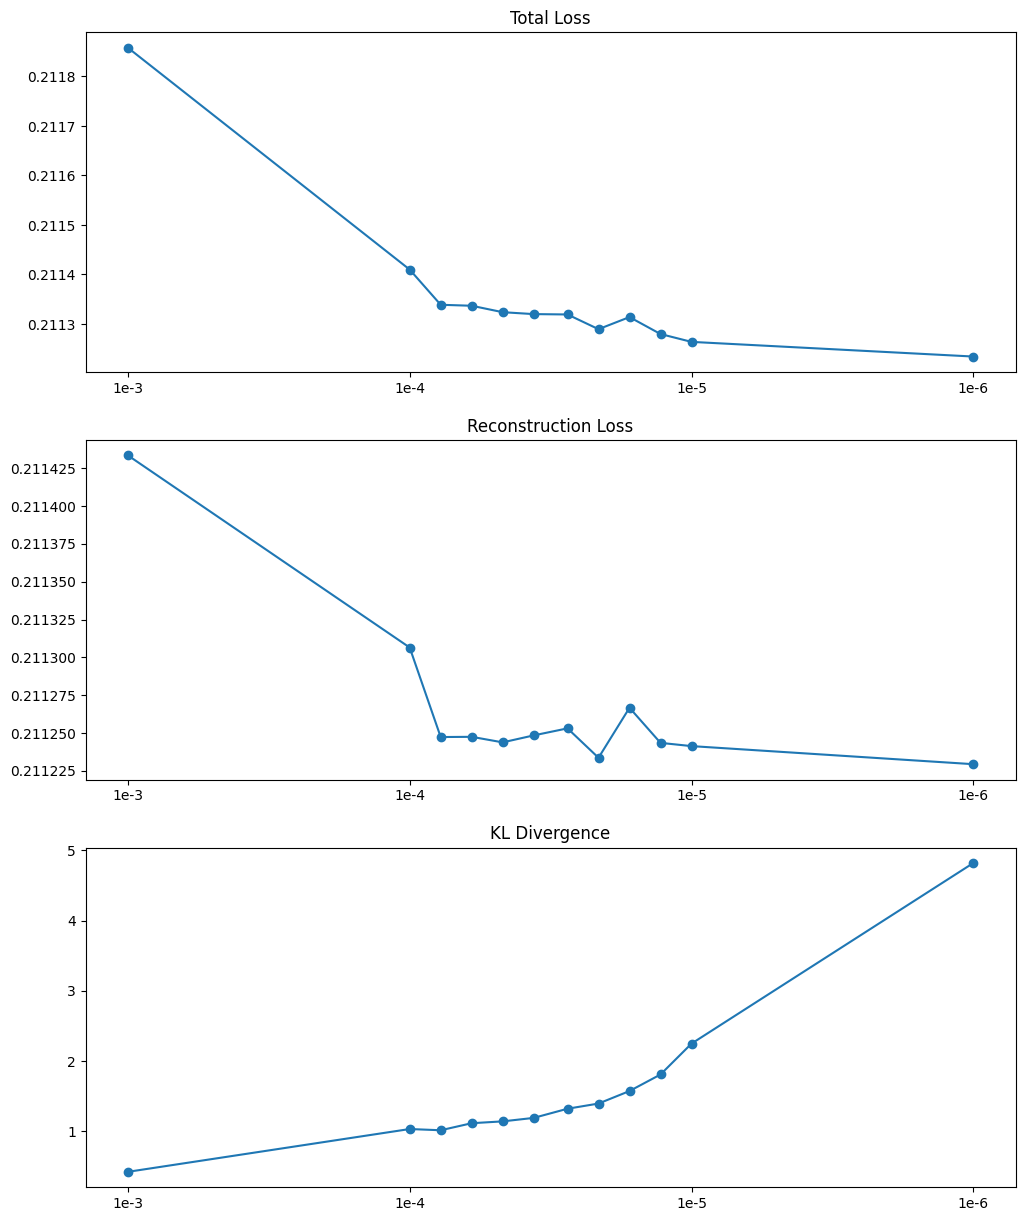
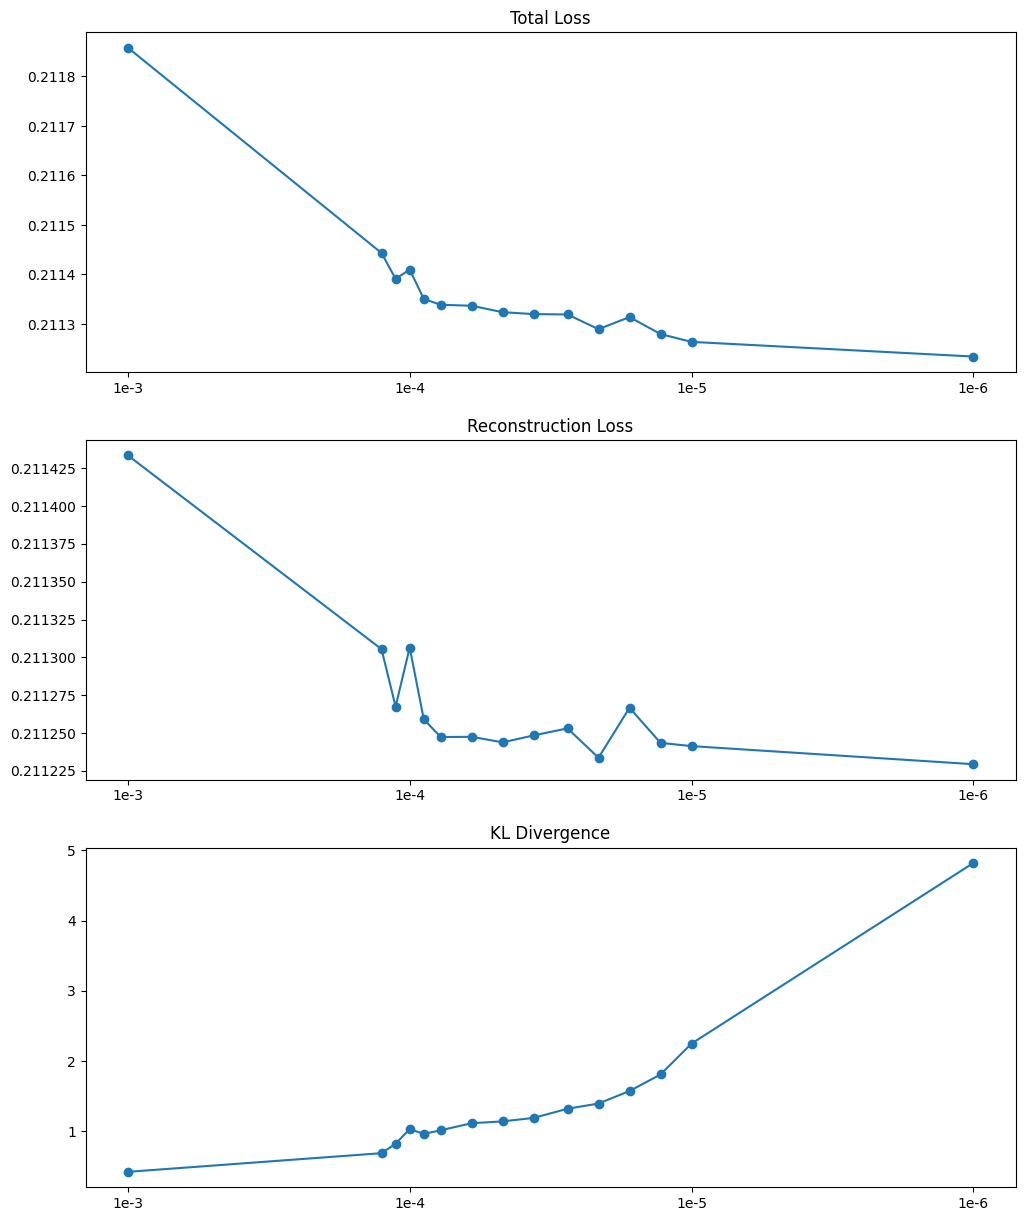
Code

diff --git a/optimal_beta.py b/optimal_beta.py
@@ -37,7 +37,7 @@ fig, axs = plt.subplots(3, 1, figsize=(12, 15))
 # beta_scale = [1, 2, 2.1, 2.2, 2.3, 2.4, 2.5, 2.6, 2.7, 2.8, 2.9, 3.5, 4, 4.5, 5, 5.5, 6, 6.5, 7]
 # beta_scale = [1, 2, 2.11, 2.22, 2.33, 2.44, 2.56, 2.67, 2.78, 2.89, 3, 3.5, 4, 4.5, 5, 5.5, 6, 6.5, 7]
 # beta_scale = [0.5, 1, 1.5, 2, 2.5, 3, 3.5, 4, 4.5, 5, 5.5, 6, 6.5, 7]
-beta_scale = [1, 2, 2.11, 2.22, 2.33, 2.44, 2.56, 2.67, 2.78, 2.89, 3, 4]
+beta_scale = [1, 1.9, 1.95, 2, 2.05, 2.11, 2.22, 2.33, 2.44, 2.56, 2.67, 2.78, 2.89, 3, 4]
 # beta_words = ["1e-2", "1e-3", "5e-4", "1e-4", "5e-5", "1e-5", "5e-6", "1e-6", "5e-7", "1e-7", "5e-8", "1e-8"]
 # beta_words = ["1e-2", "1e-3", "1e-4", "1e-5", "1e-6", "1e-7", "1e-8"]
 beta_words = ["1e-3", "1e-4", "1e-5", "1e-6"]
